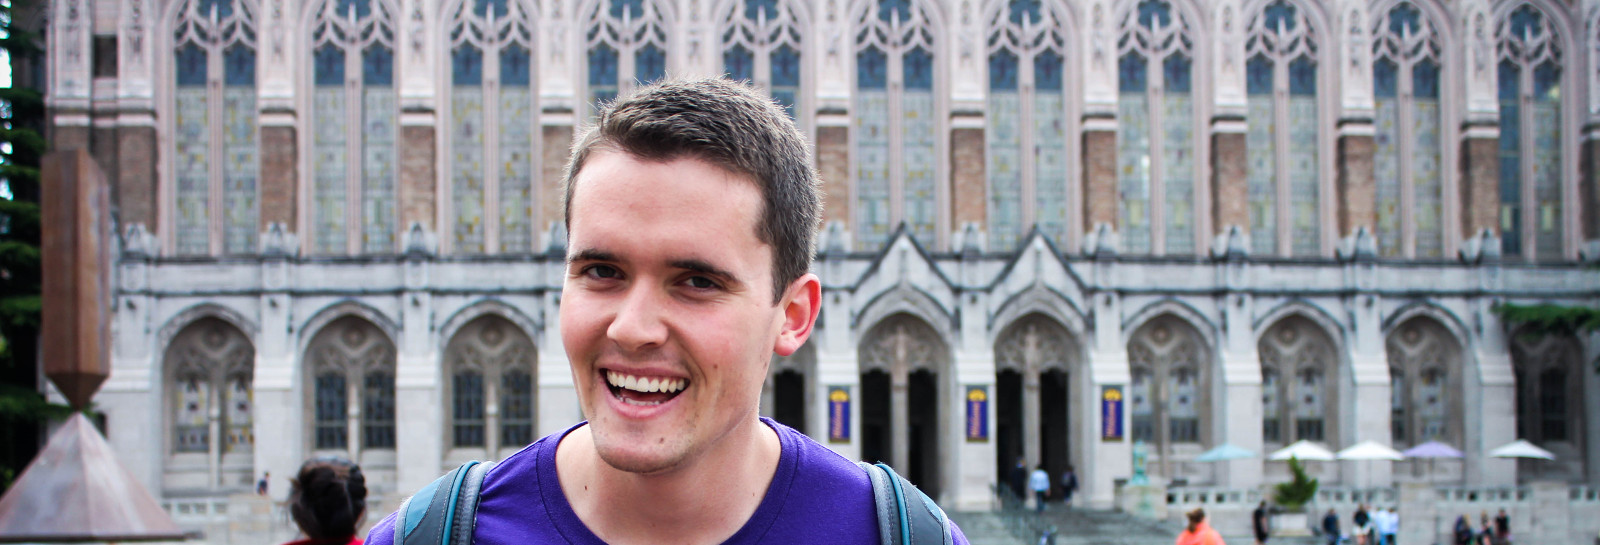
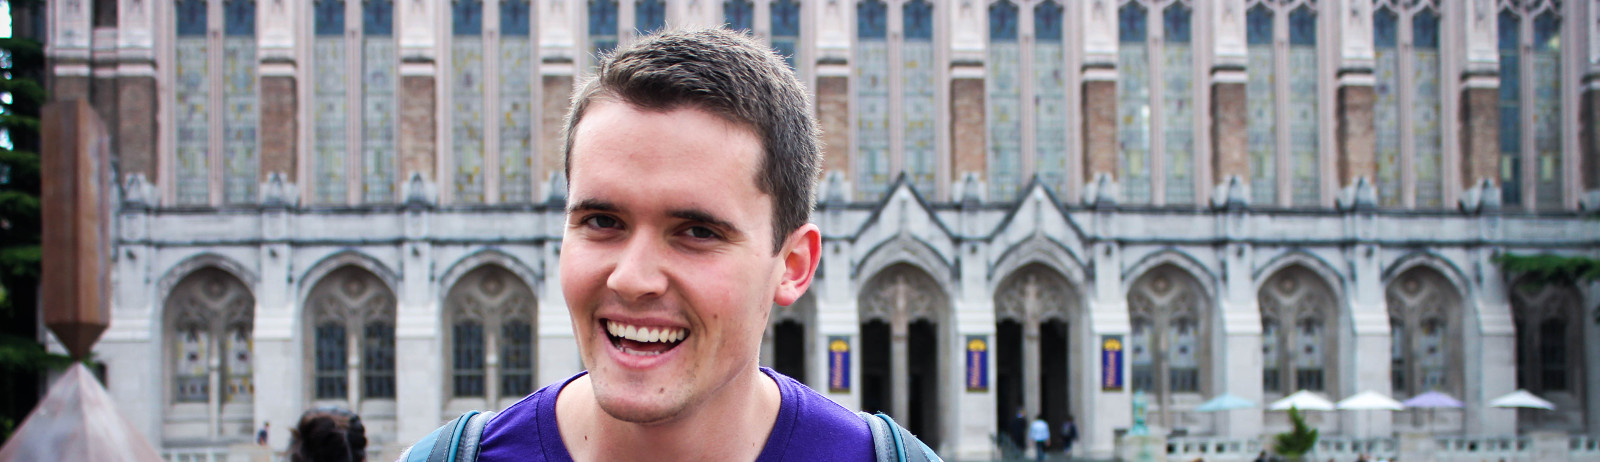
Added faded cloudy bg

diff --git a/www/index.html b/www/index.html
@@ -230,7 +230,29 @@
       </div>
     </div>
     <script src="scripts/jquery.js"></script>
+    <script language="javascript">
+      <!-- hide from none JavaScript Browsers 
+
+      image1= new Image();
+      image1.src = "img/uw.jpg";
+
+      image2 = new Image();
+      image2.src = "img/index.jpg";
+
+      image3 = new Image();
+      image3.src = "img/whiteboard.jpg";
+      image4 = new Image();
+      image4.src = "img/contact.jpg";
+      image5 = new Image();
+      image5.src = "img/projects.jpg";
+
+      // End Hiding -->
+      </script>
     <script>
+
+
+
+
       var Navigation = function() {
         this.changeTo = function(id, headerImage) {
           $('.visible').animate({opacity: 0}, 500, 'swing', function() {

diff --git a/www/css/index.css b/www/css/index.css
@@ -209,17 +209,13 @@ h1.header-description {
 }
 
 .cloudy {
-    -ms-filter: "progid:DXImageTransform.Microsoft.Alpha(Opacity=50)";       /* IE 8 */
-    filter: alpha(opacity=50);  /* IE 5-7 */
-    -moz-opacity: 0.5;          /* Netscape */
-    -khtml-opacity: 0.5;        /* Safari 1.x */
-    opacity: 0.5;               /* Good browsers */
-    background-color: white;
-    width: 100%;
+    background: url('../img/fade.png');
+    width: 50%;
     height: 100px;
     position: relative;
     top: -40px;
-    left:0px;
+    margin-left: 50%;
+    right:0px;
 }
 
 .bodyHeader {
